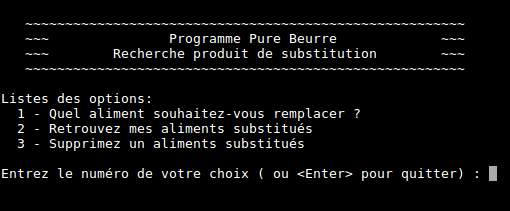
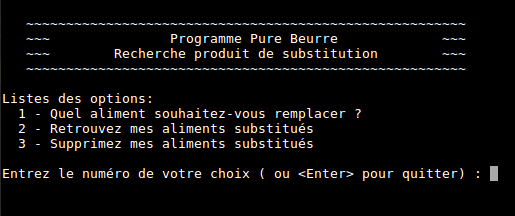
Modif diagram files and add values in the list of categories

diff --git a/package/glob.py b/package/glob.py
@@ -44,7 +44,8 @@ class Glob:
         'categorie': (
             'Boissons gazeuses', 'Boissons chaudes', 'Boissons non sucrées', 'Laits', 'Yaourts', 'Fromages',
             'Plats préparés', 'Céréales et pommes de terre', 'Biscuits et gateaux', 'Desserts', 'Confiseries',
-            'Légumes et dérivés'
+            'Légumes et dérivés', 'Epicerie', 'Poissons', 'Apéritif', 'Surgelés', 'Conserves', 'Petit-déjeuners',
+            'Sauces', 'Produit de la mer', 'Condiments', 'Plats à base de viande', 'Bonbons', 'Vins'
         ),
         'assoc_product_categorie': (
             'product_id',

diff --git a/purebeurre_client.py b/purebeurre_client.py
@@ -226,7 +226,7 @@ def main():
     print("\nListes des options:\n"
           "  1 - Quel aliment souhaitez-vous remplacer ?\n"
           "  2 - Retrouvez mes aliments substitués\n"
-          "  3 - Supprimez un aliments substitués\n")
+          "  3 - Supprimez mes aliments substitués\n")
     entry = input("Entrez le numéro de votre choix ( ou <Enter> pour quitter) : ")
     return entry
 
